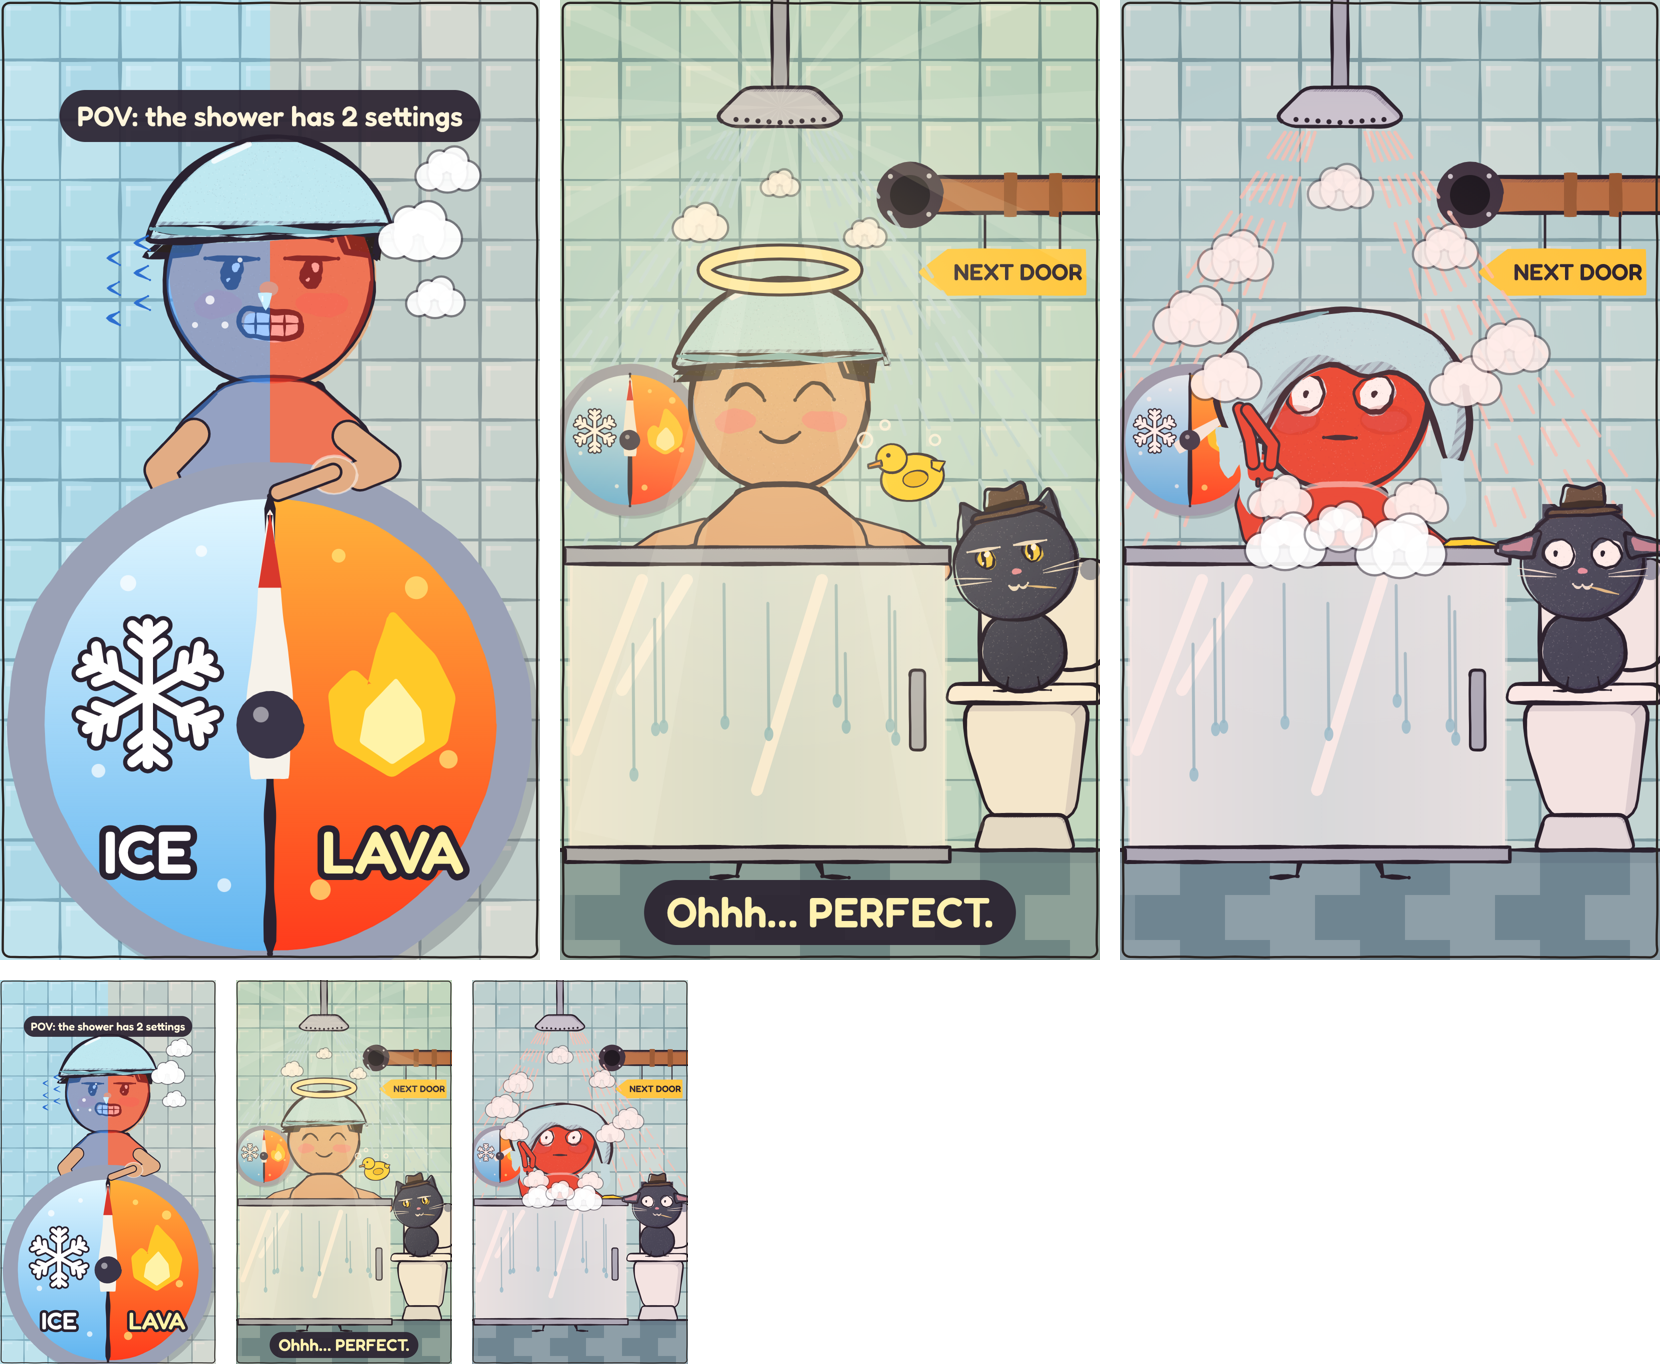
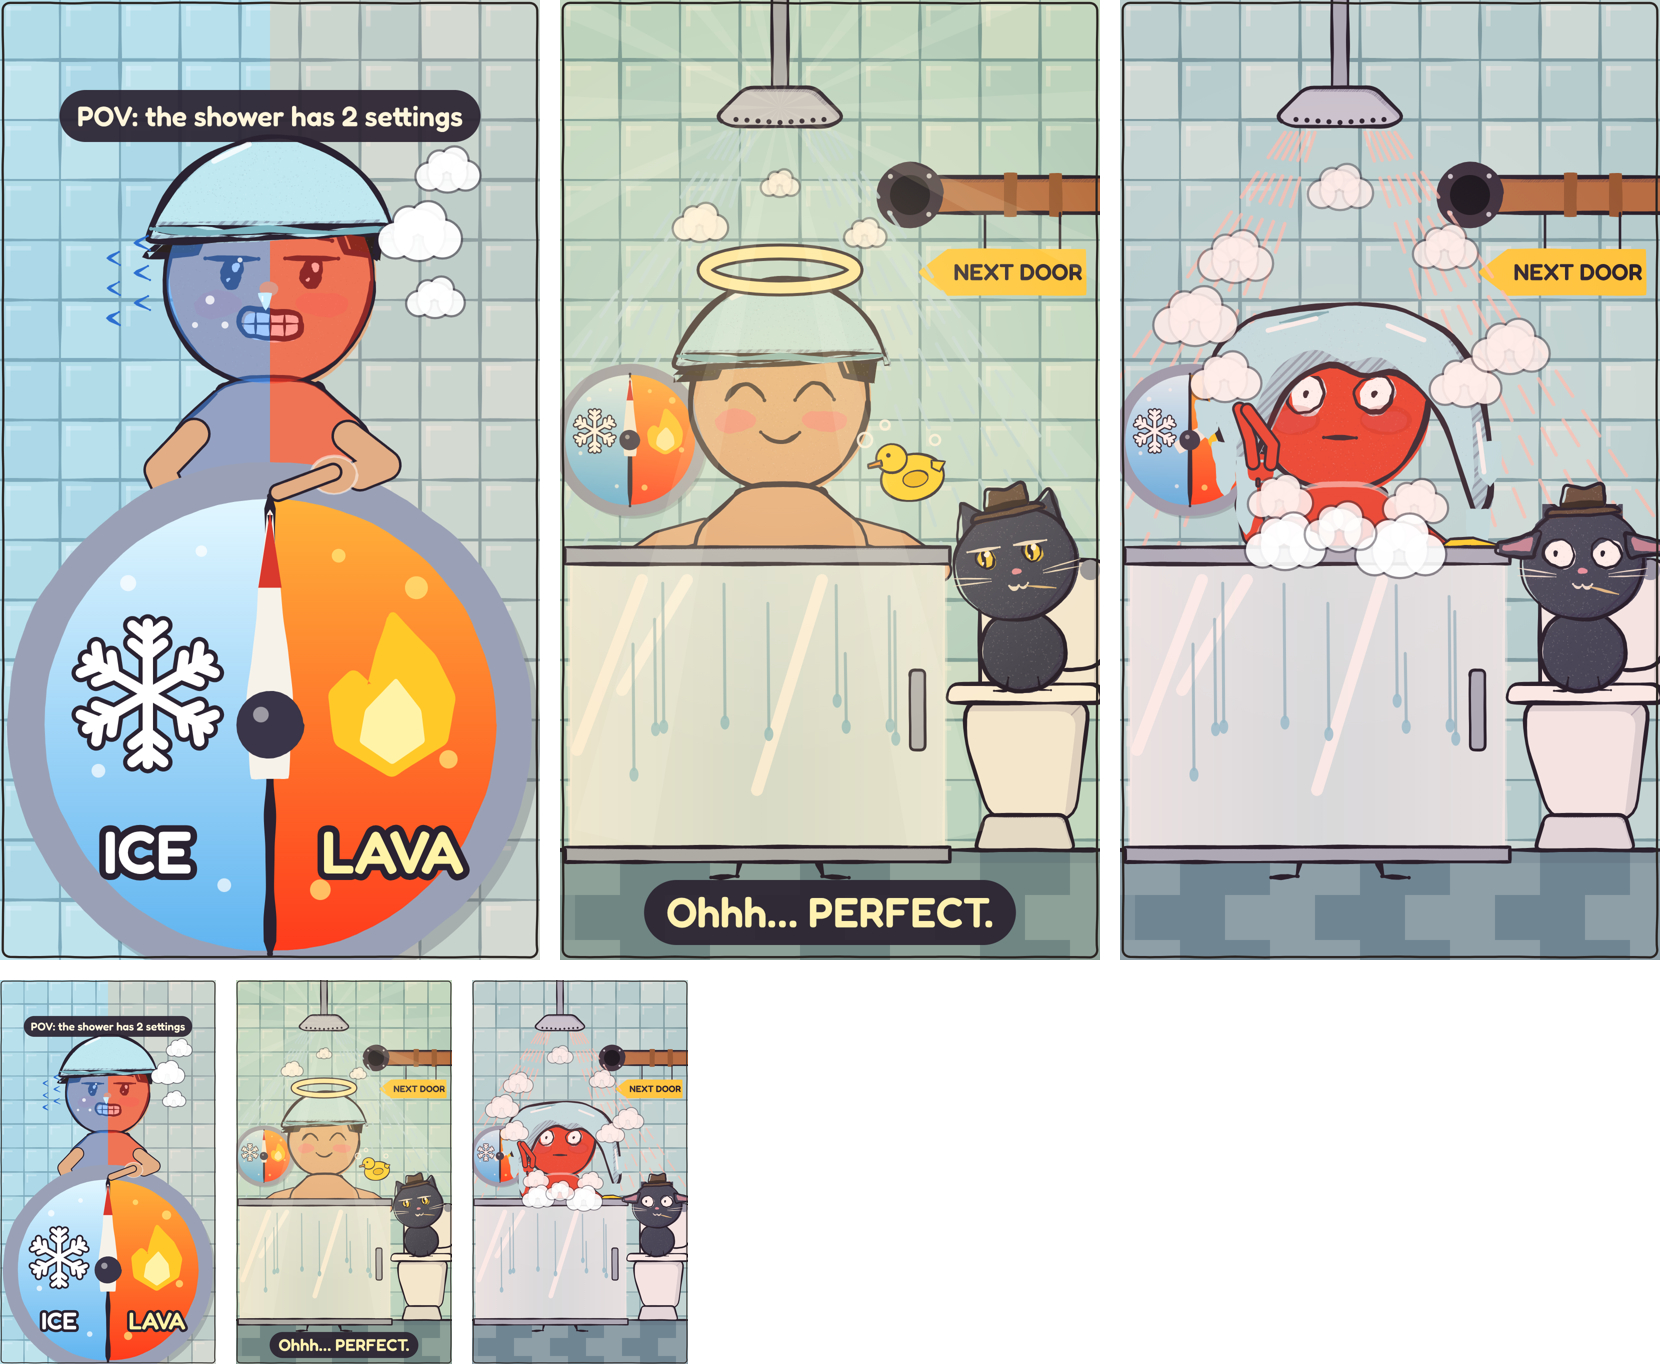
Tập 13 Perfect: melted cap +1 notch; voice v1 (8 lines), picture retimed to voice (~28 s)

diff --git a/episodes/22-next/film/stills.js b/episodes/22-next/film/stills.js
@@ -158,11 +158,12 @@ function cap(X, Y, s, melted = false, col = '#bfe8f0') {
     p.line([[-17, hy + 7.4], [-9, hy + 6.7], [0, hy + 7.4], [9, hy + 6.7], [17, hy + 7.4]], p.lw * 0.9, '#7ab4c0');   // elastic band
     ctx.save(); ctx.strokeStyle = 'rgba(255,255,255,0.8)'; ctx.lineWidth = Math.max(5, s * 0.8); ctx.lineCap = 'round'; const a = p.T([-8, hy + 17]), b = p.T([-3, hy + 19.4]); ctx.beginPath(); ctx.moveTo(a[0], a[1]); ctx.lineTo(b[0], b[1]); ctx.stroke(); ctx.restore();
   } else {   // melted flat: a limp pancake slumped over the crown, sagging past the temples
-    const pts = [[-21, hy + 2], [-19.5, hy + 8], [-14, hy + 12.6], [-6, hy + 14.6], [1, hy + 15], [9, hy + 14], [16, hy + 10.5], [20.5, hy + 5], [22, hy - 4], [20.6, hy - 11], [17.6, hy - 11.6], [16, hy - 5], [13.6, hy + 2], [9, hy + 5.4], [4, hy + 3.6], [-1, hy + 6.6], [-6.4, hy + 4.4], [-9.4, hy + 1.2], [-12, hy - 4.4], [-15, hy - 9], [-18.4, hy - 6.4], [-20.4, hy - 2]];
+    const pts = [[-23, hy + 1], [-21, hy + 9], [-15, hy + 14], [-6, hy + 15.6], [2, hy + 16], [10, hy + 15], [18, hy + 11], [23, hy + 4], [25, hy - 6], [25.6, hy - 17], [22.6, hy - 21], [20, hy - 12], [17.4, hy - 4], [13.6, hy + 2], [9, hy + 5.4], [4, hy + 3.6], [-1, hy + 6.6], [-6.4, hy + 4.4], [-9.4, hy + 1.2], [-12.4, hy - 5.4], [-15.6, hy - 12], [-19, hy - 9], [-21.4, hy - 3]];
     p.part(roundPoly(pts, 2.5, 3), col, { shade: 0.12 });
     p.line([[-10, hy + 13], [-2, hy + 14.6]], p.lw * 0.6, '#7ab4c0');
     const drip = (x, y, len) => { const q = [[x - 1.7, y + 1], [x + 1.7, y + 1], [x + 1.4, y - len * 0.7], [x, y - len], [x - 1.4, y - len * 0.7]]; ctx.fillStyle = col; ctx.beginPath(); q.map(v => p.T(v)).forEach((v, i) => i ? ctx.lineTo(v[0], v[1]) : ctx.moveTo(v[0], v[1])); ctx.fill(); p.outline(q, true, p.lw * 0.7); };
-    drip(-15, hy - 8.6, 10); drip(-18.6, hy - 6, 6.5); drip(19, hy - 11.2, 9);
+    drip(-15.6, hy - 11, 11); drip(-19.2, hy - 8.4, 7); drip(-22, hy - 1.4, 5); drip(23, hy - 19.6, 11); drip(25, hy - 8, 6.5);
+    ctx.save(); ctx.strokeStyle = 'rgba(255,255,255,0.9)'; ctx.lineWidth = Math.max(5, s * 0.8); ctx.lineCap = 'round'; for (const [x0, y0, x1, y1] of [[-12, hy + 11.6, -4, hy + 13.6], [8, hy + 12.4, 14, hy + 10], [23, hy - 4, 24, hy - 12]]) { const A = p.T([x0, y0]), B = p.T([x1, y1]); ctx.beginPath(); ctx.moveTo(A[0], A[1]); ctx.lineTo(B[0], B[1]); ctx.stroke(); } ctx.restore();
   }
 }
 

diff --git a/episodes/22-next/film/voice_gen.py b/episodes/22-next/film/voice_gen.py
@@ -1,4 +1,4 @@
-"""Tap 12 On Empty voice: one ElevenLabs call per line x 2 seeds, trimmed, per-line speed, fades, timeline.
+"""Tap 13 Perfect voice: one ElevenLabs call per line x 2 seeds, trimmed, per-line speed, fades, timeline.
   ELEVENLABS_API_KEY from env only.  HF_HUB_OFFLINE=1 ~/lemo-opuscar/.venv/bin/python voice_gen.py
 Writes voice/<id>.wav (+ <id>_t<seed>.wav), voice/timeline.json, voice/preview.wav, voice/take_<id>_<seed>.wav (raw)."""
 import json, os, re, io, difflib, subprocess, urllib.request
@@ -11,21 +11,19 @@ VID = {k: _EL[k]['voice_id'] for k in ('steve', 'snuggles', 'ted')}
 def st(stab, style, sp=1.0): return {'stability': stab, 'similarity_boost': 0.85, 'style': style, 'use_speaker_boost': True, 'speed': sp}
 # id: (voice, text with tag, settings)
 LINES = {
- 's1':  ('steve', "[forced calm, flat] It's FINE.", st(.35, .3)),
- 's2':  ('snuggles', "[dry, noir] He's been on E since TUESDAY.", st(.5, .35)),
- 's3':  ('steve', "[sniffy, dismissive] Too EXPENSIVE.", st(.35, .3)),
- 's4':  ('steve', "[dismissive, flat] Too LONG.", st(.35, .3)),
- 's5':  ('steve', "[sly, whispering] Downhill... FREE.", st(.35, .3)),
- 's6':  ('steve', "[joyful, shouting] I MADE IT!", st(.0, .5)),
- 's7':  ('ted', "[flat, polite] It's FULL, sir.", st(.6, .2)),
- 's8a': ('steve', "[flat, deadpan, quiet] ...Since TUESDAY?", st(.4, .3)),
- 's8b': ('steve', "[flat, deadpan, quiet] ...Since Tuesday.", st(.4, .3)),
- 's9':  ('steve', "[forced calm, flat, low] It's FINE.", st(.4, .25)),
+ 's1':  ('steve', "[careful, shivering, quiet] Okay. Just a LITTLE warmer.", st(.4, .3)),
+ 's2':  ('snuggles', "[dry, noir narrator, flat] Two settings. ICE... and lava.", st(.5, .35)),
+ 's3':  ('steve', "[strained calm, through teeth] That's LAVA.", st(.35, .3)),
+ 's4':  ('steve', "[flat, defeated] ...And that's the ARCTIC.", st(.4, .3)),
+ 's5':  ('steve', "[focused whisper] Just. One. HAIR.", st(.35, .3)),
+ 's5b': ('steve', "[held-breath whisper] Easy... easy...", st(.35, .3)),
+ 's6':  ('steve', "[bliss, warm, not shouted] Ohhh... PERFECT.", st(.25, .45)),
+ 's7':  ('snuggles', "[hushed dread, whisper] Nobody MOVE.", st(.5, .3)),
 }
-SPEED = json.load(open(os.path.join(HERE, 'speeds.json'))) if os.path.exists(os.path.join(HERE, 'speeds.json')) else {}
-GAIN = {'s1': -3, 's2': -1.5, 's3': -2, 's4': -3, 's5': -3.5, 's6': 0, 's7': -1.5, 's8a': -4, 's8b': -4, 's9': -4.5}
-# (id, pause_after) from script.md: 5 .3+5b 1.2; 7 .6+7b .8+7c .6; punch pause .7
-def order(punch): return [('s1', .2), ('s2', .3), ('s3', .2), ('s4', .3), ('s5', 1.5), ('s6', .2), ('s7', 2.0), (punch, .7), ('s9', 0)]
+SPEED = {'s1': 1.15, 's2': 1.15, 's3': 1.15, 's4': .95, 's5': 1.15, 's5b': 1.05, 's6': .9, 's7': .9}
+GAIN = {'s1': -3, 's2': -1.5, 's3': -2, 's4': -3, 's5': -3.5, 's5b': -4, 's6': 0, 's7': -3}
+# pauses after, from script.md
+def order(punch=None): return [('s1', .2), ('s2', .3), ('s3', .2), ('s4', .3), ('s5', .2), ('s5b', .4), ('s6', .3), ('s7', 0)]
 END_HOLD = 0.0
 CHOICE = json.load(open(os.path.join(HERE, 'choice.json'))) if os.path.exists(os.path.join(HERE, 'choice.json')) else {}
 norm = lambda w: re.sub(r'[^a-z0-9]', '', w.lower())
@@ -72,16 +70,16 @@ if __name__ == '__main__':
         pick = CHOICE.get(i, pick); ys[i] = finish(i, trim(sf.read(os.path.join(OUT, f'take_{i}_{pick}.wav'))[0]))
         rep[i] = {'seed': pick, 'asr': {str(s): round(c[s][1], 2) for s in c}, 'dur_raw': {str(s): round(len(c[s][0])/SR, 2) for s in c}, 'f0_hz': round(f0(ys[i]))}
     out = {}
-    for punch in ('s8a', 's8b'):
+    for punch in ('main',):
         t, tl = 0.0, []
         for i, p in order(punch):
             d = len(ys[i])/SR; tl.append({'id': i, 'start': round(t, 3), 'end': round(t+d, 3), 'speed': SPEED.get(i, 1.0)}); t += d+p
-        total = tl[-1]['end'] + END_HOLD; ps = [x for x in tl if x['id'] == punch][0]['start']
+        total = tl[-1]['end'] + END_HOLD; ps = tl[-1]['start']
         buf = np.zeros(int((total+.3)*SR))
         for x in tl: y = ys[x['id']]; s0 = int(x['start']*SR); buf[s0:s0+len(y)] += y
         sf.write(os.path.join(OUT, f'voice_mix_{punch}.wav'), buf, SR)
         out[punch] = {'lines': tl, 'voice_end': tl[-1]['end'], 'punch_start': ps, 'punch_pct_of_voice_end': round(100*ps/total, 1), 'vo_sum': round(sum(len(ys[x['id']])/SR for x in tl), 2)}
-    subprocess.run(['ffmpeg', '-v', 'error', '-y', '-i', os.path.join(OUT, 'voice_mix_s8a.wav'), '-af', 'loudnorm=I=-14:TP=-1.5:LRA=7', '-ar', str(SR), '-ac', '1', os.path.join(OUT, 'preview.wav')], check=True)
+    subprocess.run(['ffmpeg', '-v', 'error', '-y', '-i', os.path.join(OUT, 'voice_mix_main.wav'), '-af', 'loudnorm=I=-14:TP=-1.5:LRA=7', '-ar', str(SR), '-ac', '1', os.path.join(OUT, 'preview.wav')], check=True)
     json.dump({'variants': out, 'picks': rep}, open(os.path.join(OUT, 'timeline.json'), 'w'), indent=1)
     for i in ys: print(i, round(len(ys[i])/SR, 2), rep[i])
     for k, v in out.items(): print(k, 'vo_sum', v['vo_sum'], 'voice_end', round(v['voice_end'], 2), 'punch', round(v['punch_start'], 2), v['punch_pct_of_voice_end'], '%')

diff --git a/episodes/22-next/script.md b/episodes/22-next/script.md
@@ -114,3 +114,14 @@ Int 4 |                           6
 - Row 5b had an unresolved "(or water?)" note. Fixed: one drop on his temple.
 - Word count recounted: 25 words (not 27).
 - Checked, no change: 6 muttered lines, one peak, punch at 76 %, modesty (curtain from the chest down), no cat reveal, not in BANK.
+
+## Timing after voice (2026-11-19, replaces "Rough timing" for the render)
+The ElevenLabs reads are slower than the beat plan. At speed 1.15 (s1, s2, s3, s5) and 1.05 (s5b), speech is 17.7 s and s7 ends at 19.6 s.
+Decision (coordinator): retime the picture to the voice instead of cutting approved words.
+| Beat | Time |
+|---|---|
+| s1–s7 (voice/timeline.json) | 0.0–19.6 |
+| 8 flush (gap 0.4 after s7) | 20.0–21.6 |
+| 8b punch cut + hold | 22.0–24.0 (≈ 79 % of 28 s) |
+| 9 button + loop | 24.2–28.0 |
+Total ≈ 28 s, still inside the 25–30 s base; punch inside 70–85 %.
